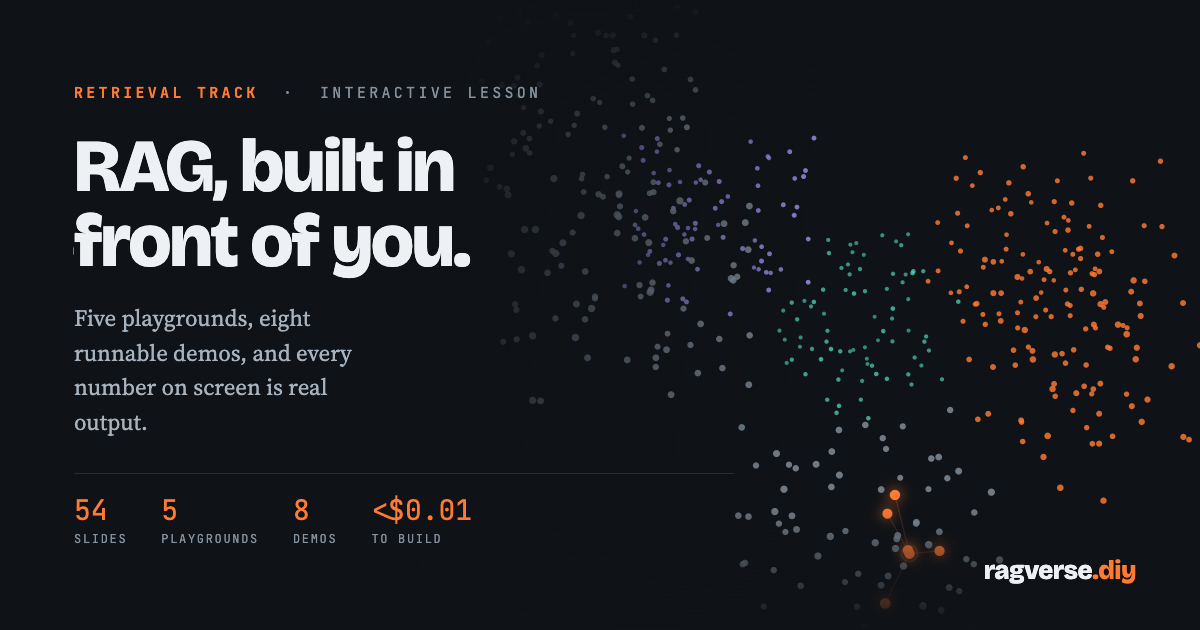
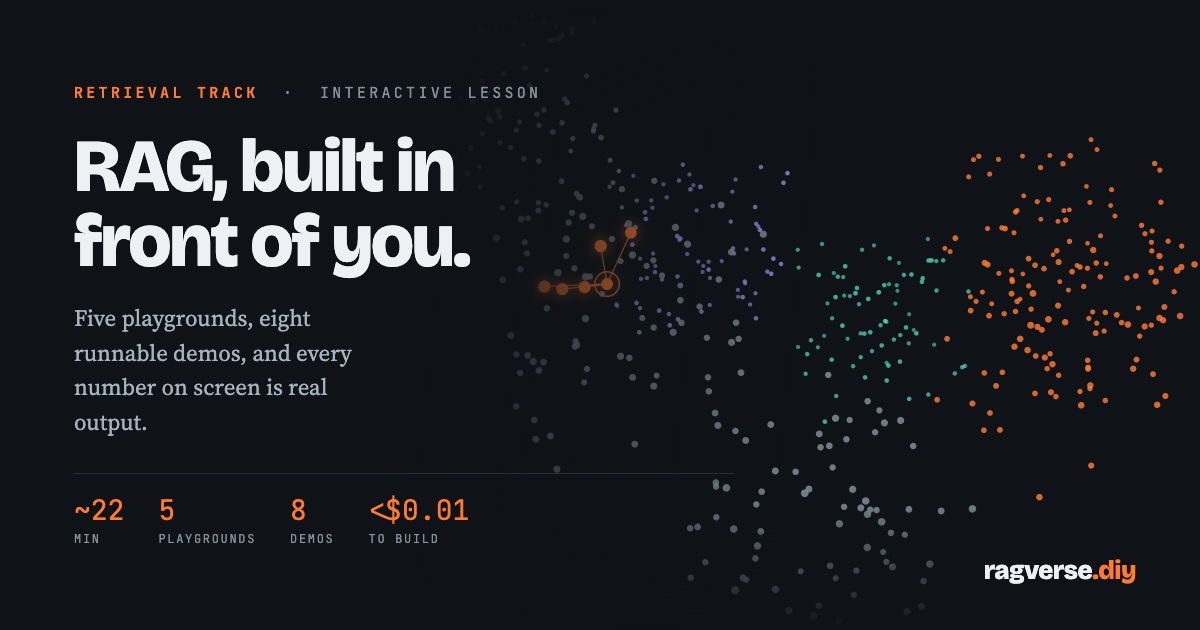
Fix a number the narration contradicts, and stop hand-keeping the 404 and the social card
The retrieval playground reported **110% sent to model** at top k of six. It
summed the lengths of the retrieved chunks, and the chunks overlap by 40
characters, so it double-counted. On a slide whose whole subject is precision,
next to narration that says "we are now sending most of the document." It
measures the union of the spans the chunks actually cover now: 54% at k=2,
79% at 3, 100% from 4. The narration says a hundred percent because that is
what the screen says, and the widget's own note changes at full coverage to
make the point itself — *at this k you have reinvented pasting the whole
thing in*.

The same widget opened on `how much annual leave do I get`, which matches no
preset, so the panel it advertises as "real vectors" everywhere loaded showing
the approximate fallback. It opens on a preset now — top score 0.673, which is
the number the narration quotes. Typing still flips it to approximate.

The prompt box is deliberately taller than its frame, but it ended on a line
cut in half, which reads as broken rather than as scrollable — and nobody
watching a recording can scroll it. Scroll shadows, so it says "there is more"
and says nothing once you reach the end.

404.html was a hand-kept copy of the page shell and had already drifted: its
nav was missing Present and its footer did not match the generated one. It
goes through `page()` like every other page now, with a `noindex` option
instead of a canonical.
[…]

diff --git a/slides/interactive.js b/slides/interactive.js
@@ -1,8 +1,10 @@
 /* Interactive widgets for the RAG deck.
  *
- * Five of them, all driven from the slide markup by id. Two use real
- * precomputed OpenAI vectors (data.js); the chunking and retrieval
- * playgrounds run entirely in the browser with no API key, and say so.
+ * Five of them, all driven from the slide markup by id. Three run on the real
+ * precomputed OpenAI vectors in data.js - the neighbourhood map, the retrieval
+ * playground's preset questions, and the mismatch toggle. Everything runs in
+ * the browser with no API key, so a question the visitor types cannot be
+ * embedded; that one case falls back to a local measure and says so on screen.
  */
 (function () {
   'use strict';
@@ -333,8 +335,15 @@ Reviews. Formal reviews happen twice a year, in June and December. Promotion dec
 
       $('rt-ptok').textContent = fmt(tokens(prompt.length));
       $('rt-dtok').textContent = fmt(tokens(RETR_DOC.length));
-      $('rt-pct').textContent =
-        Math.round((context.length / RETR_DOC.length) * 100) + '%';
+      // Chunks overlap, so summing their lengths double-counts and can exceed
+      // the document. Measure the union of the spans they actually cover.
+      const spans = ranked.map((r) => chunks[r.i]).sort((a, b) => a.start - b.start);
+      let covered = 0, reach = 0;
+      for (const c of spans) {
+        if (c.end > reach) { covered += c.end - Math.max(c.start, reach); reach = c.end; }
+      }
+      const pct = Math.round((covered / RETR_DOC.length) * 100);
+      $('rt-pct').textContent = pct + '%';
       $('rt-top').textContent = (ranked[0] ? ranked[0].s : 0).toFixed(3);
 
       const best = ranked[0] ? ranked[0].s : 0;
@@ -342,6 +351,9 @@ Reviews. Formal reviews happen twice a year, in June and December. Promotion dec
       $('rt-note').innerHTML = best < floor
         ? 'Top score is <b>' + best.toFixed(3) + '</b> — nothing here really answers that. ' +
           'Note that you still got ' + topk + ' results back. A retriever always returns k.'
+        : pct >= 100
+        ? 'Every part of the document is now in the prompt. At this <em>k</em> you have ' +
+          '<b>reinvented pasting the whole thing in</b>.'
         : 'Only the highlighted chunks are sent. Everything else in the document ' +
           'is never seen by the model.';
     }

diff --git a/slides/theme.css b/slides/theme.css
@@ -353,10 +353,23 @@ section.divider .rule { width: 4em; height: 5px; background: var(--accent); marg
 .ix-note b { color: var(--accent-text); }
 
 .ix-prompt {
-  margin-top: 0.6em; background: var(--term-bg); color: var(--term-fg); border-radius: 4px;
+  margin-top: 0.6em; color: var(--term-fg); border-radius: 4px;
   padding: 0.6em 0.8em; font-family: var(--mono); font-size: 0.78em;
   line-height: 1.5; max-height: 180px; overflow-y: auto; white-space: pre-wrap;
   font-variant-ligatures: none;
+  /* The prompt is longer than the box on purpose - that is the point of the
+     slide. Scroll shadows so it reads as "there is more" rather than as a
+     line cut in half, which matters most in a recording where nobody watching
+     can scroll it. The covers scroll with the content and uncover the shadow
+     only at the end you have not reached. */
+  background:
+    linear-gradient(var(--term-bg) 30%, rgba(0, 0, 0, 0)) local,
+    linear-gradient(rgba(0, 0, 0, 0), var(--term-bg) 70%) 0 100% local,
+    radial-gradient(farthest-side at 50% 0, rgba(0, 0, 0, 0.55), rgba(0, 0, 0, 0)) scroll,
+    radial-gradient(farthest-side at 50% 100%, rgba(0, 0, 0, 0.55), rgba(0, 0, 0, 0)) 0 100% scroll;
+  background-repeat: no-repeat;
+  background-size: 100% 32px, 100% 32px, 100% 13px, 100% 13px;
+  background-color: var(--term-bg);
 }
 .ix-prompt .lbl { color: var(--term-hi); }
 .ix-prompt .q { color: var(--term-ok); }
@@ -500,3 +513,16 @@ button.ix-chip {
 /* the retrieval playground says whether the scores are real or approximate */
 .ix-hint.ix-real { color: var(--teal); }
 .ix-hint.ix-real b { color: var(--teal); font-weight: 700; }
+
+/* --- reduced motion ------------------------------------------------------
+   Reveal keeps its half-second cross-fade whatever the OS asks for, and the
+   control bar and drawer animate too. Honour the setting: the deck is a
+   teaching tool, and nothing here depends on the movement. */
+@media (prefers-reduced-motion: reduce) {
+  .reveal .slides section,
+  .reveal .slides,
+  .deck-bar, .deck-notes, .deck-btn, .ix-chip, .reveal .progress span {
+    transition: none !important;
+    animation: none !important;
+  }
+}

diff --git a/slides/index.html b/slides/index.html
@@ -1771,7 +1771,7 @@ This is the step everyone misreads. Vectors are only used for finding; their job
     <div class="ix-controls two-up">
       <div class="ix-ctl">
         <label>question</label>
-        <input type="text" id="rt-q" aria-label="Your question" value="how much annual leave do I get">
+        <input type="text" id="rt-q" aria-label="Your question" value="annual leave">
         <div class="ix-chips" id="rt-presets">
           <button type="button" class="ix-chip">annual leave</button>
           <button type="button" class="ix-chip">laptop budget</button>
@@ -1809,7 +1809,7 @@ One honesty note before I start clicking. The four preset questions were embedde
 Watch the ranking jump. The equipment chunk goes to the top and the prompt underneath rebuilds itself in real time.
 
 [DRAG top k FROM 2 TO 6]
-Now raise top k. More chunks get highlighted, and look at the "sent to model" figure — we are now sending most of the document. That is the failure mode of a large k: you have reinvented pasting the whole thing in.
+Now raise top k. More chunks get highlighted, and watch the "sent to model" figure climb — by six it reads a hundred percent. Every part of the document is in the prompt. That is the failure mode of a large k: you have reinvented pasting the whole thing in.
 
 [SET top k BACK TO 2, CLICK 'what is the capital of France']
 And here is the one I really want you to see. That question is not answerable from this document at all — there is nothing about France anywhere in it.

diff --git a/site/index.html b/site/index.html
@@ -60,8 +60,8 @@
     </div>
     <div class="facts">
       <div class="fact"><div class="n">~{{ESS_MIN}}<span style="font-size:0.5em;color:var(--accent-text)"> min</span></div><div class="l">the short way</div></div>
-      <div class="fact"><div class="n">5</div><div class="l">interactive playgrounds</div></div>
-      <div class="fact"><div class="n">8</div><div class="l">runnable demos</div></div>
+      <div class="fact"><div class="n">{{PLAYGROUNDS}}</div><div class="l">interactive playgrounds</div></div>
+      <div class="fact"><div class="n">{{DEMOS}}</div><div class="l">runnable demos</div></div>
       <div class="fact"><div class="n">&lt;$0.01</div><div class="l">to build it yourself</div></div>
     </div>
     <p class="hero-caption">Behind this: an embedding space. Every few seconds one point becomes

diff --git a/site/og.html b/site/og.html
@@ -42,9 +42,9 @@
     <h1>RAG, built in<br>front of you.</h1>
     <p>Five playgrounds, eight runnable demos, and every number on screen is real output.</p>
     <div class="row">
-      <div class="s"><div class="n">54</div><div class="l">slides</div></div>
-      <div class="s"><div class="n">5</div><div class="l">playgrounds</div></div>
-      <div class="s"><div class="n">8</div><div class="l">demos</div></div>
+      <div class="s"><div class="n">~{{ESS_MIN}}</div><div class="l">min</div></div>
+      <div class="s"><div class="n">{{PLAYGROUNDS}}</div><div class="l">playgrounds</div></div>
+      <div class="s"><div class="n">{{DEMOS}}</div><div class="l">demos</div></div>
       <div class="s"><div class="n">&lt;$0.01</div><div class="l">to build</div></div>
     </div>
   </div>

diff --git a/site/site.css b/site/site.css
@@ -415,3 +415,10 @@ body[data-mode="talk"] .read .cue .cmd { color: var(--ink-soft); font-weight: 40
 .read .mode-talk { display: none; }
 body[data-mode="talk"] .read .mode-talk { display: revert; }
 body[data-mode="talk"] .read .mode-wa   { display: none; }
+
+/* --- reduced motion ----------------------------------------------------- */
+@media (prefers-reduced-motion: reduce) {
+  * { transition: none !important; animation: none !important; }
+  a.card:hover { transform: none; }
+  html { scroll-behavior: auto; }
+}

diff --git a/SCRIPT.md b/SCRIPT.md
@@ -1092,7 +1092,7 @@ One honesty note before I start clicking. The four preset questions were embedde
 Watch the ranking jump. The equipment chunk goes to the top and the prompt underneath rebuilds itself in real time.
 
 [DRAG top k FROM 2 TO 6]
-Now raise top k. More chunks get highlighted, and look at the "sent to model" figure — we are now sending most of the document. That is the failure mode of a large k: you have reinvented pasting the whole thing in.
+Now raise top k. More chunks get highlighted, and watch the "sent to model" figure climb — by six it reads a hundred percent. Every part of the document is in the prompt. That is the failure mode of a large k: you have reinvented pasting the whole thing in.
 
 [SET top k BACK TO 2, CLICK 'what is the capital of France']
 And here is the one I really want you to see. That question is not answerable from this document at all — there is nothing about France anywhere in it.

diff --git a/docs/MAINTAINING.md b/docs/MAINTAINING.md
@@ -324,6 +324,13 @@ npx serve dist -l 8912          # or python3 -m http.server 8912 -d dist
 node tools/make_og.mjs          # -> site/og.png, commit it
 ```
 
+`site/og.html` carries the same `{{PLACEHOLDERS}}` as the landing page and is
+filled by the same build pass, so the card cannot advertise numbers the site no
+longer has. The scheme is pinned to dark in `make_og.mjs`; without that the
+committed PNG would flip depending on the OS of whoever re-rendered it. The
+retrieval event fires at a random point, so **look at the card before you
+commit it** — an earlier render put the glow underneath the wordmark.
+
 ---
 
 ## Where the numbers differ from the source lessons

diff --git a/README.md b/README.md
@@ -17,7 +17,7 @@ gotchas, the API key and the practical rules.
 |---|---|---|
 | **Essentials** · 28 slides | [~22 min](https://ragverse.diy/read/talk-essentials/) | [~36 min](https://ragverse.diy/read/essentials/) |
 | **Short** · 36 slides | [~29 min](https://ragverse.diy/read/talk-short/) | [~43 min](https://ragverse.diy/read/short/) |
-| **Full** · 54 slides | [~82 min](https://ragverse.diy/read/talk/) | [~104 min](https://ragverse.diy/read/) |
+| **Full** · 54 slides | [~83 min](https://ragverse.diy/read/talk/) | [~104 min](https://ragverse.diy/read/) |
 <!-- END:editions -->
 
 Same slides, same output, same rigour. **Neither short nor essentials is a
